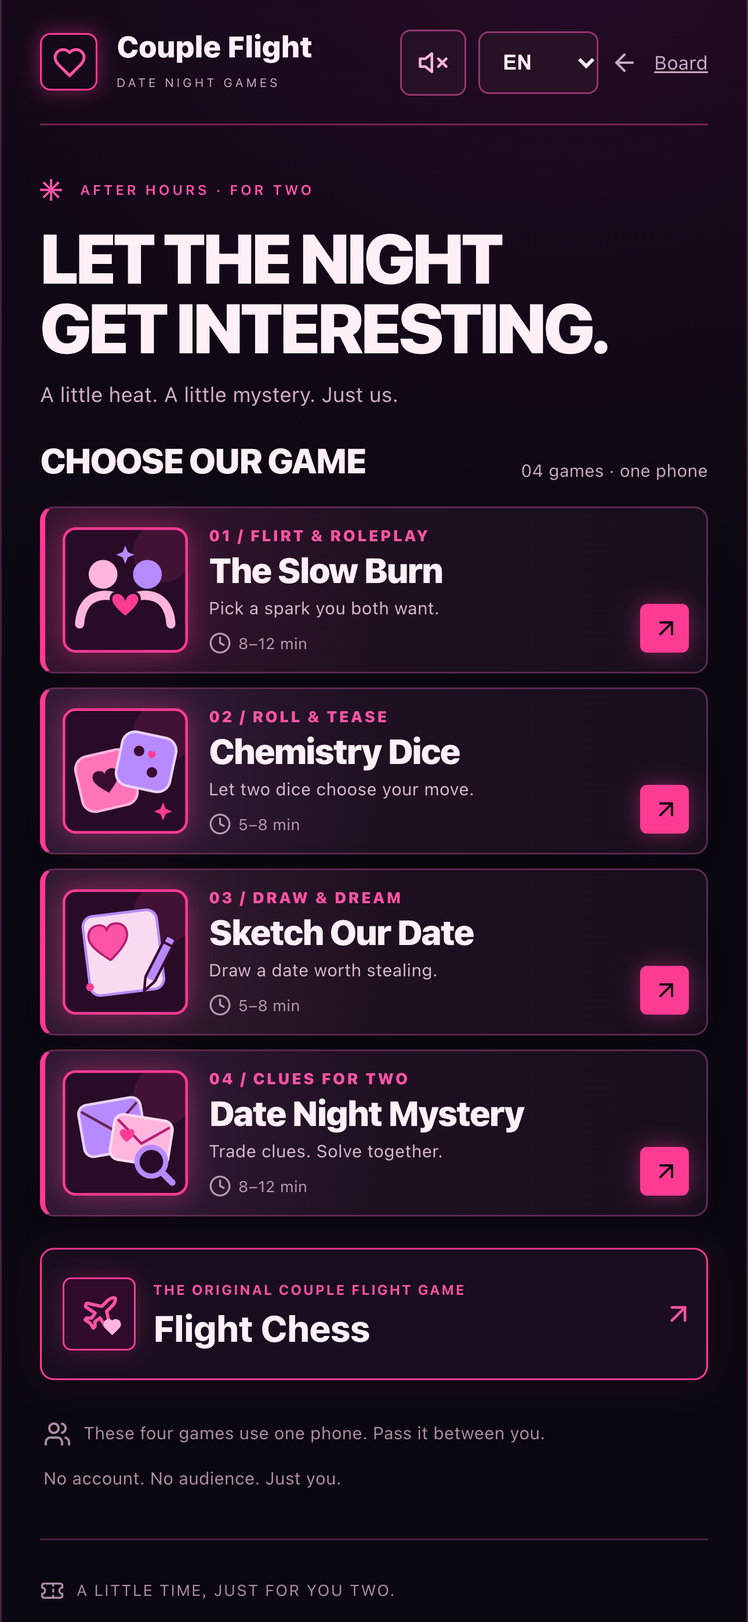
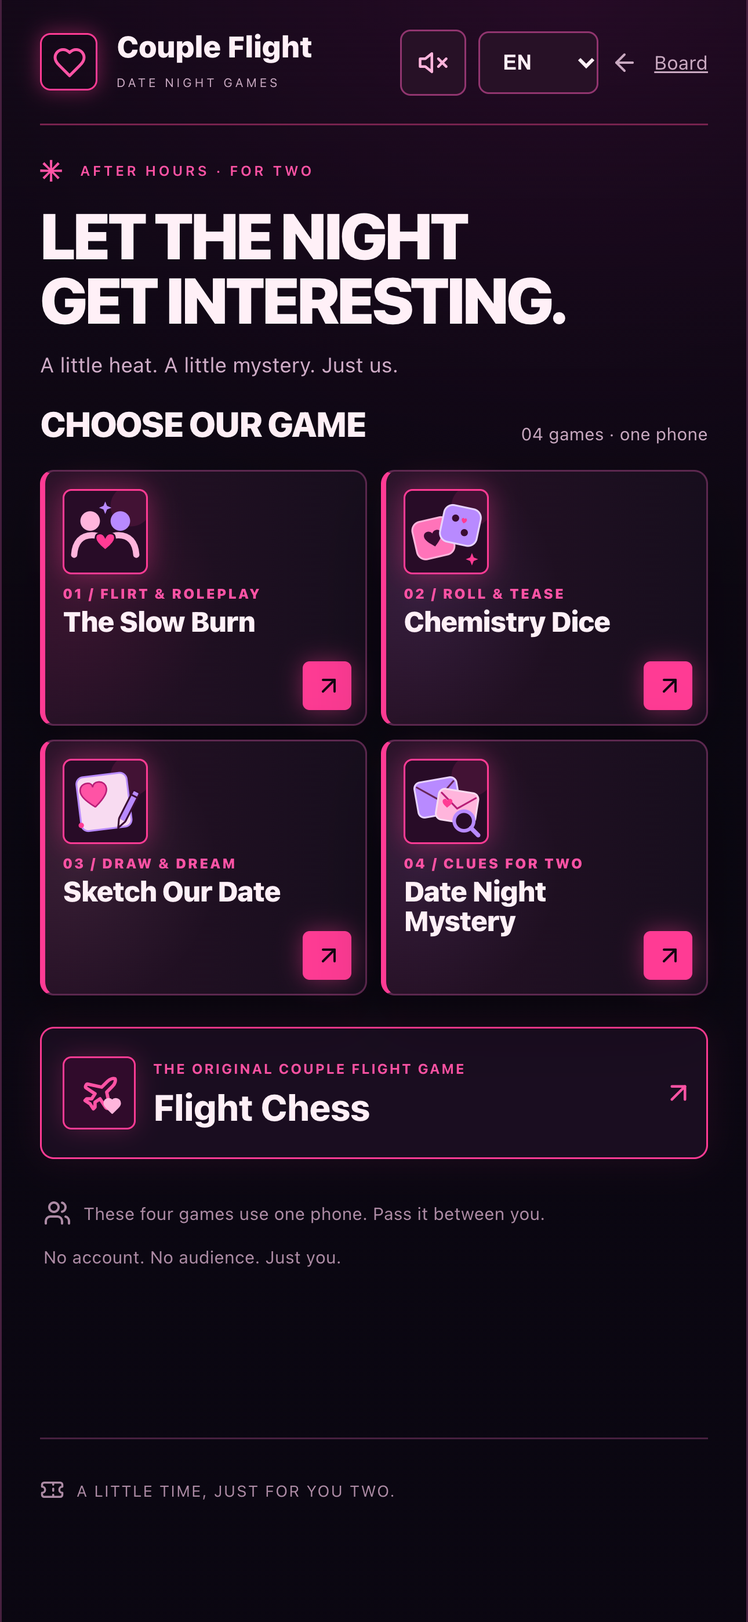
Fix mobile game catalog and tailor Slow Burn for married couples

diff --git a/prototypes/date-night/mini-translations.ts b/prototypes/date-night/mini-translations.ts
@@ -124,9 +124,70 @@ export const miniTranslations: Record<string, readonly [string, string]> = {
   'Offer a hand, a hug, or a kiss. Let your partner choose.': ['伸出手、给个拥抱，或问问能不能亲一下。让对方选。', 'Ofrece una mano, un abrazo o un beso. Deja que tu pareja elija.'],
   'Ask, listen, and follow the answer you get now. A no or a different idea is complete in itself.': ['先问问对方想不想。说“不”，或想换一种，都照着对方现在的意思来。', 'Pregunta, escucha y respeta la respuesta de ahora. Un no o una idea distinta ya es una respuesta completa.'],
   '“Then let’s do exactly that.”': ['“好，那就按你说的来。”', '«Entonces hagamos justo eso».'],
+  'The welcome-home kiss': ['回家后的那个吻', 'El beso de bienvenida'],
+  'Greet them as if you have been waiting all week.': ['像等了一整周那样，认真迎接对方。', 'Recíbele como si llevaras toda la semana esperando este momento.'],
+  'Ask for a kiss and let them choose how long it lasts.': ['问问能不能亲一下，亲多久让对方决定。', 'Pide un beso y deja que tu pareja decida cuánto dura.'],
+  '“Can I have the kind of hello we used to save for dates?”': ['“能不能像以前约会那样，给我一个见面吻？”', '«¿Me das uno de esos saludos que antes reservábamos para las citas?»'],
+  '“Only if you promise not to rush away.”': ['“可以，但你得答应别急着走开。”', '«Solo si prometes no salir corriendo después».'],
+  'Remember that night': ['还记得那一晚吗', '¿Recuerdas aquella noche?'],
+  'Bring back one detail from a date you still think about.': ['说一个你到现在还记得的约会细节。', 'Recupera un detalle de una cita que todavía recuerdes.'],
+  'Each name one detail. Then choose one to recreate soon.': ['每人说一个细节，再挑一个近期重现。', 'Cada quien dice un detalle; luego elijan uno para repetir pronto.'],
+  '“Remember that night? I still think about one part of it.”': ['“还记得那晚吗？有一幕我到现在都记得。”', '«¿Recuerdas aquella noche? Hay un momento que todavía tengo presente».'],
+  '“Tell me yours. I have one too.”': ['“先说你的，我也藏着一个。”', '«Cuéntame el tuyo. Yo también tengo uno».'],
+  'Choose the next move': ['下一步你来选', 'Elige el siguiente paso'],
+  'Offer a kiss, a slow dance, or a private plan for later.': ['给对方三个选项：一个吻、一支慢舞，或稍后的秘密计划。', 'Ofrece un beso, un baile lento o un plan privado para después.'],
+  'Let your partner pick one, suggest another, or pass.': ['让对方选一个、换一个，或者跳过。', 'Deja que tu pareja elija, proponga otra cosa o pase.'],
+  '“I have three ideas for us. Which one sounds like tonight?”': ['“我有三个点子。今晚你想选哪个？”', '«Tengo tres ideas para nosotros. ¿Cuál te apetece esta noche?»'],
+  '“Tell me the options. I might add a fourth.”': ['“先说来听听，说不定我还要加第四个。”', '«Dime las opciones. Quizá añada una cuarta».'],
+  'Pillow talk, no phones': ['枕边话，手机放一边', 'Charla de almohada, sin teléfonos'],
+  'Lie face to face and tell each other one thing you still find irresistible.': ['面对面躺着，轮流说一件现在仍让你心动的事。', 'Acuéstense frente a frente y díganse algo que todavía les resulta irresistible.'],
+  'Take turns with one honest line. A smile is allowed to interrupt.': ['轮流说一句真心话。说着说着笑场也没关系。', 'Túrnense para decir una frase sincera. Si se ríen, mejor.'],
+  '“Phone down. Tell me one thing you still like about us.”': ['“先放下手机。说一件你现在还喜欢我们俩的事。”', '«Deja el teléfono. Dime algo que todavía te encanta de nosotros».'],
+  '“I have more than one. You go first.”': ['“我可不止一件。你先来。”', '«Tengo más de una. Empieza tú».'],
+  'One more goodnight kiss': ['晚安吻，再来一次', 'Un beso más de buenas noches'],
+  'Meet at the edge of the bed for a kiss that lasts longer than usual.': ['在床边相遇，给彼此一个比平时久一点的吻。', 'Encuéntrense al borde de la cama para un beso que dure un poco más.'],
+  'Ask for one kiss. Let your partner decide if it gets an encore.': ['先问能不能亲一下。要不要再来一次，让对方选。', 'Pide un beso. Tu pareja decide si hay repetición.'],
+  '“Can we give tonight a better ending?”': ['“今晚能不能换个更好的结尾？”', '«¿Le damos un mejor final a esta noche?»'],
+  '“That depends. How good is your first kiss?”': ['“那得看你的第一个吻有多厉害。”', '«Depende. ¿Qué tan bueno será el primer beso?»'],
+  'Your turn, then mine': ['你先选，再换我', 'Primero tú, luego yo'],
+  'Each choose one small bedroom move the other can say yes to or change.': ['每人提一个卧室里的小动作，对方可以同意，也可以改。', 'Cada quien propone un gesto íntimo; la otra persona puede aceptarlo o cambiarlo.'],
+  'Offer one move each. Keep the version you both like.': ['一人提一个点子，只留下两人都喜欢的版本。', 'Propongan un gesto cada uno y quédense con la versión que les guste a ambos.'],
+  '“You pick our first move. I get the next one.”': ['“第一步你选，下一步换我。”', '«Tú eliges el primer paso. El siguiente me toca a mí».'],
+  '“Deal. No peeking at my choice.”': ['“成交。可不许偷看我选什么。”', '«Trato hecho. Nada de espiar mi elección».'],
+  'A kiss worth staying for': ['让人舍不得结束的吻', 'Un beso para quedarse'],
+  'Sit together at the edge of the bed and let the first kiss take its time.': ['一起坐在床边，让第一个吻慢一点、久一点。', 'Siéntense al borde de la cama y tómense su tiempo con el primer beso.'],
+  'Take turns choosing when to lean in. Pause and ask before another kiss.': ['轮流决定何时靠近。再亲一次前，停下来问问对方。', 'Túrnense para acercarse. Antes de otro beso, hagan una pausa y pregunten.'],
+  '“I want to kiss you like we have nowhere else to be. Can I?”': ['“我想慢慢亲你，像今晚哪儿都不用去。可以吗？”', '«Quiero besarte sin ninguna prisa. ¿Puedo?»'],
+  '“Come closer. Slow is exactly what I want.”': ['“靠近一点。今晚我就想慢慢来。”', '«Acércate. Justo hoy quiero ir despacio».'],
+  'Face to face': ['枕边面对面', 'Frente a frente'],
+  'Turn toward each other on the pillows; choose a look, a kiss, or both.': ['在枕头上转身面对彼此，选对视、亲吻，或者都要。', 'Mírense frente a frente sobre las almohadas: una mirada, un beso o ambas cosas.'],
+  'Stay face to face for three breaths. Let either person choose the next move.': ['面对面停留三个呼吸，再由任意一方提出下一步。', 'Quédense frente a frente durante tres respiraciones. Cualquiera puede proponer lo siguiente.'],
+  '“Stay here with me. What should I do first?”': ['“先陪我待在这里。你想让我先做什么？”', '«Quédate aquí conmigo. ¿Qué te gustaría primero?»'],
+  '“Start with that look. Then ask me again.”': ['“先用刚才那个眼神看我，再问一次。”', '«Empieza con esa mirada. Luego pregúntame otra vez».'],
+  'Whisper a wish': ['贴近耳边说个愿望', 'Susurra un deseo'],
+  'Tell your spouse one thing you would love tonight, softly and without guessing.': ['贴近一点，说一件今晚你想和对方一起做的事，别让对方猜。', 'Dile a tu pareja algo que te encantaría esta noche, bajito y sin hacerle adivinar.'],
+  'Each whisper one wish. The other can say yes, suggest a change, or pass.': ['每人轻声说一个愿望。对方可以答应、修改，也可以跳过。', 'Cada quien susurra un deseo. La otra persona puede decir que sí, cambiarlo o pasar.'],
+  '“I have one wish for tonight. Want to hear it?”': ['“我今晚有个小愿望。想听吗？”', '«Tengo un deseo para esta noche. ¿Quieres oírlo?»'],
+  '“Tell me. I’ll tell you what I want too.”': ['“说来听听。我也告诉你我想要什么。”', '«Cuéntamelo. Yo también te diré qué quiero».'],
+  'Leave a little clue': ['留个小暗号', 'Deja una pequeña pista'],
+  'Trace a tiny heart over a clothed shoulder and ask where the next kiss should land.': ['隔着衣服在对方肩上画颗小爱心，再问下一吻想落在哪里。', 'Dibuja un corazoncito sobre su hombro cubierto y pregunta dónde le gustaría el próximo beso.'],
+  'Ask before touching. Let their answer choose the next move.': ['碰之前先问，让对方的回答决定下一步。', 'Pregunta antes de tocar. Su respuesta decide el siguiente paso.'],
+  '“I’m leaving you a clue. Where would you like the next kiss?”': ['“我留了个小暗号。下一吻你想要在哪里？”', '«Te dejo una pista. ¿Dónde te gustaría el próximo beso?»'],
+  '“I like that clue. Try here.”': ['“这个暗号我喜欢。来这里试试。”', '«Me gusta la pista. Prueba aquí».'],
+  'Side by side': ['并肩躺一会儿', 'Uno al lado del otro'],
+  'Lie together under the covers and let one person choose what comes next.': ['一起钻进被子，轮流决定接下来做什么。', 'Acuéstense juntos bajo las cobijas y dejen que uno elija qué sigue.'],
+  'Hold hands for three breaths; ask if they want a kiss, a whisper, or more time.': ['牵着手慢慢呼吸三次，再问想要一个吻、一句悄悄话，还是再等等。', 'Tómense de la mano durante tres respiraciones; pregunta si quiere un beso, un susurro o más tiempo.'],
+  '“Come lie next to me. We can take our time.”': ['“过来躺我旁边。今晚我们可以慢慢来。”', '«Ven a acostarte a mi lado. Tenemos tiempo».'],
+  '“Yes. Stay close and ask me what I’m thinking.”': ['“好。再靠近一点，猜猜我在想什么。”', '«Sí. Quédate cerca y pregúntame qué estoy pensando».'],
+  'Your turn to lead': ['今晚你带路', 'Hoy tú llevas la iniciativa'],
+  'Take turns choosing one bedtime move: a kiss, a close embrace, or a whispered request.': ['轮流选一个床边小动作：一个吻、一次靠近，或一句悄悄话。', 'Túrnense para elegir un gesto: un beso, acercarse o pedir algo al oído.'],
+  'One person offers a move; the other accepts, changes it, or passes. Then swap.': ['一人提出动作，另一人同意、修改或跳过，然后交换。', 'Uno propone el gesto; el otro acepta, cambia o pasa. Luego cambian de turno.'],
+  '“Your move. Surprise me with something I’d actually like.”': ['“你先出招。给我一个真正懂我的惊喜。”', '«Te toca. Sorpréndeme con algo que de verdad me guste».'],
+  '“Only if I get the next turn.”': ['“可以，不过下一轮得换我。”', '«Solo si el siguiente turno es mío».'],
+  'A BEDROOM MOVE': ['今夜的小动作', 'UN GESTO ÍNTIMO'],
   'The date is ending. Neither of you is in a hurry to say goodbye.': ['约会快结束了，可你们谁都不急着说再见。', 'La cita está por terminar, pero ninguno tiene prisa por despedirse.'],
   'You made it home. The ordinary evening still has room for one more moment.': ['回到家了，平常的夜晚还可以多一点特别。', 'Ya llegaron a casa. A esta noche común todavía le cabe un momento especial.'],
-  'The day is finally quiet. You get to choose how tonight begins again.': ['终于安静下来了。今晚想怎么重新开始，由你们决定。', 'Por fin hay silencio. Ustedes deciden cómo volver a empezar esta noche.'],
+  'The bedroom door is closed. You get to choose how tonight begins together.': ['卧室门轻轻关上。今晚从哪一步开始，你们一起决定。', 'La puerta del dormitorio está cerrada. Ustedes eligen cómo empezar esta noche.'],
   '“I was trying to play it cool. Then you did that thing I keep thinking about…”': ['“我本来想装得淡定一点。可你刚才那个小动作，我一直忘不掉……”', '«Intentaba hacerme el tranquilo, pero hiciste algo que no dejo de recordar…»'],
   '“You caught me looking. Want to guess why?”': ['“被你发现我在看你了。猜猜为什么？”', '«Me atrapaste mirándote. ¿Quieres adivinar por qué?»'],
   '“I want to come closer. Would you like a hand, a hug, or a kiss?”': ['“我想靠近一点。你想牵手、拥抱，还是接个吻？”', '«Me gustaría acercarme. ¿Te apetece tomarme la mano, un abrazo o un beso?»'],

diff --git a/prototypes/date-night/after-hours.tsx b/prototypes/date-night/after-hours.tsx
@@ -6,18 +6,21 @@ import { stageLabels, type Names, type Stage, type Vibe } from './content';
 import { useScreenFocus } from './useScreenFocus';
 import { useMiniI18n } from './mini-i18n';
 import { playMiniCue, playMiniVoice } from './mini-audio';
+import bedroomSheet from './assets/slow-burn-married-velvet.png';
 
 type Choice = 'yes' | 'maybe' | 'pass';
 type Move = {
-  id: 'words' | 'gaze' | 'closer';
+  id: string;
   title: string;
   pitch: string;
   art?: ArtKind;
+  bedroomCell?: number;
   action: string;
+  invitation?: string;
   comeback: string;
 };
 
-const moves: Move[] = [
+const newMoves: Move[] = [
   {
     id: 'words', title: 'Make me blush', pitch: 'Trade one specific compliment, close enough to hear it clearly.',
     art: 'chat',
@@ -37,10 +40,38 @@ const moves: Move[] = [
   },
 ];
 
+const togetherMoves: Move[] = [
+  { id: 'welcome', title: 'The welcome-home kiss', pitch: 'Greet them as if you have been waiting all week.', art: 'home', action: 'Ask for a kiss and let them choose how long it lasts.', invitation: '“Can I have the kind of hello we used to save for dates?”', comeback: '“Only if you promise not to rush away.”' },
+  { id: 'memory', title: 'Remember that night', pitch: 'Bring back one detail from a date you still think about.', art: 'ticket', action: 'Each name one detail. Then choose one to recreate soon.', invitation: '“Remember that night? I still think about one part of it.”', comeback: '“Tell me yours. I have one too.”' },
+  { id: 'close', title: 'Choose the next move', pitch: 'Offer a kiss, a slow dance, or a private plan for later.', art: 'dance', action: 'Let your partner pick one, suggest another, or pass.', invitation: '“I have three ideas for us. Which one sounds like tonight?”', comeback: '“Tell me the options. I might add a fourth.”' },
+];
+
+const marriedPlayfulMoves: Move[] = [
+  { id: 'pillow-look', title: 'Pillow talk, no phones', pitch: 'Lie face to face and tell each other one thing you still find irresistible.', bedroomCell: 1, action: 'Take turns with one honest line. A smile is allowed to interrupt.', invitation: '“Phone down. Tell me one thing you still like about us.”', comeback: '“I have more than one. You go first.”' },
+  { id: 'bedside-kiss', title: 'One more goodnight kiss', pitch: 'Meet at the edge of the bed for a kiss that lasts longer than usual.', bedroomCell: 0, action: 'Ask for one kiss. Let your partner decide if it gets an encore.', invitation: '“Can we give tonight a better ending?”', comeback: '“That depends. How good is your first kiss?”' },
+  { id: 'switch-lead', title: 'Your turn, then mine', pitch: 'Each choose one small bedroom move the other can say yes to or change.', bedroomCell: 5, action: 'Offer one move each. Keep the version you both like.', invitation: '“You pick our first move. I get the next one.”', comeback: '“Deal. No peeking at my choice.”' },
+];
+
+const marriedFlirtyMoves: Move[] = [
+  { id: 'slow-kiss', title: 'A kiss worth staying for', pitch: 'Sit together at the edge of the bed and let the first kiss take its time.', bedroomCell: 0, action: 'Take turns choosing when to lean in. Pause and ask before another kiss.', invitation: '“I want to kiss you like we have nowhere else to be. Can I?”', comeback: '“Come closer. Slow is exactly what I want.”' },
+  { id: 'face-to-face', title: 'Face to face', pitch: 'Turn toward each other on the pillows; choose a look, a kiss, or both.', bedroomCell: 1, action: 'Stay face to face for three breaths. Let either person choose the next move.', invitation: '“Stay here with me. What should I do first?”', comeback: '“Start with that look. Then ask me again.”' },
+  { id: 'whisper-wish', title: 'Whisper a wish', pitch: 'Tell your spouse one thing you would love tonight, softly and without guessing.', bedroomCell: 2, action: 'Each whisper one wish. The other can say yes, suggest a change, or pass.', invitation: '“I have one wish for tonight. Want to hear it?”', comeback: '“Tell me. I’ll tell you what I want too.”' },
+  { id: 'shoulder-heart', title: 'Leave a little clue', pitch: 'Trace a tiny heart over a clothed shoulder and ask where the next kiss should land.', bedroomCell: 3, action: 'Ask before touching. Let their answer choose the next move.', invitation: '“I’m leaving you a clue. Where would you like the next kiss?”', comeback: '“I like that clue. Try here.”' },
+  { id: 'side-by-side', title: 'Side by side', pitch: 'Lie together under the covers and let one person choose what comes next.', bedroomCell: 4, action: 'Hold hands for three breaths; ask if they want a kiss, a whisper, or more time.', invitation: '“Come lie next to me. We can take our time.”', comeback: '“Yes. Stay close and ask me what I’m thinking.”' },
+  { id: 'take-the-lead', title: 'Your turn to lead', pitch: 'Take turns choosing one bedtime move: a kiss, a close embrace, or a whispered request.', bedroomCell: 5, action: 'One person offers a move; the other accepts, changes it, or passes. Then swap.', invitation: '“Your move. Surprise me with something I’d actually like.”', comeback: '“Only if I get the next turn.”' },
+];
+
+function MoveIllustration({ move }: { move: Move }) {
+  if (move.bedroomCell === undefined) return <PromptIllustration kind={move.art} />;
+  const column = move.bedroomCell % 3;
+  const row = Math.floor(move.bedroomCell / 3);
+  return <span className="prompt-art bedroom-art" data-art-kind={`bedroom-${move.bedroomCell}`} aria-hidden="true" style={{ backgroundImage: `url(${bedroomSheet})`, backgroundSize: '300% 200%', backgroundPosition: `${column * 50}% ${row * 100}%` }} />;
+}
+
 const settings: Record<Stage, string> = {
   new: 'The date is ending. Neither of you is in a hurry to say goodbye.',
   together: 'You made it home. The ordinary evening still has room for one more moment.',
-  married: 'The day is finally quiet. You get to choose how tonight begins again.',
+  married: 'The bedroom door is closed. You get to choose how tonight begins together.',
 };
 
 const invitations: Record<Stage, Record<Move['id'], string>> = {
@@ -65,6 +96,7 @@ export function AfterHours({ names, stage, vibe, onHome, onReplay }: {
   names: Names; stage: Stage; vibe: Vibe; onHome: () => void; onReplay: () => void;
 }) {
   const { locale, tr, fmt, displayName } = useMiniI18n();
+  const deck = stage === 'married' ? vibe === 'flirty' ? marriedFlirtyMoves : marriedPlayfulMoves : stage === 'together' ? togetherMoves : newMoves;
   const [phase, setPhase] = useState<'pick' | 'detail' | 'reveal' | 'scene' | 'ending'>('pick');
   const [owner, setOwner] = useState(0);
   const [index, setIndex] = useState(0);
@@ -74,15 +106,15 @@ export function AfterHours({ names, stage, vibe, onHome, onReplay }: {
   const [beat, setBeat] = useState(0);
   const [ending, setEnding] = useState<'linger' | 'later'>('linger');
   useScreenFocus(`after-hours-${phase}-${owner}-${index}-${beat}`);
-  const matches = moves.filter(move => answers[0][move.id] !== 'pass' && answers[1][move.id] !== 'pass' && answers[0][move.id] && answers[1][move.id]);
+  const matches = deck.filter(move => answers[0][move.id] !== 'pass' && answers[1][move.id] !== 'pass' && answers[0][move.id] && answers[1][move.id]);
 
   function choose(choice: Choice) {
-    const thisPerson = { ...answers[owner], [moves[index].id]: choice };
+    const thisPerson = { ...answers[owner], [deck[index].id]: choice };
     setAnswers(previous => owner === 0
       ? [thisPerson, previous[1]]
       : [previous[0], thisPerson]);
-    if (index < moves.length - 1) setIndex(index + 1);
-    else if (moves.every(move => thisPerson[move.id] === 'pass')) {
+    if (index < deck.length - 1) setIndex(index + 1);
+    else if (deck.every(move => thisPerson[move.id] === 'pass')) {
       if (owner === 0) { setOwner(1); setIndex(0); }
       else setPhase('reveal');
     } else setPhase('detail');
@@ -98,12 +130,12 @@ export function AfterHours({ names, stage, vibe, onHome, onReplay }: {
   </Handoff>;
 
   if (phase === 'pick') {
-    const move = moves[index];
+    const move = deck[index];
     return <Handoff key={owner} name={names[owner]} voicePlayer={owner} title="What sounds good tonight?" label="Only you see these choices">
-      <Progress current={index + 1} total={moves.length} label="Spark" />
+      <Progress current={index + 1} total={deck.length} label="Spark" />
       <div className="paper-card mini-paper after-hours-choice" data-move-id={move.id}>
-        <span className="card-label">{tr("A SMALL MOVE")}</span>
-        <PromptIllustration kind={move.art} />
+        <span className="card-label">{tr(stage === 'married' ? 'A BEDROOM MOVE' : 'A SMALL MOVE')}</span>
+        <MoveIllustration move={move} />
         <p>{tr(move.title)}</p><small>{tr(move.pitch)}</small>
       </div>
       <div className="after-hours-votes">
@@ -120,8 +152,8 @@ export function AfterHours({ names, stage, vibe, onHome, onReplay }: {
     <h1 tabIndex={-1}>{matches.length ? <>{tr("You both left")}<br /><em>{tr("the door open.")}</em></> : <>{tr("Tonight can stay")}<br /><em>{tr("easy.")}</em></>}</h1>
     <p className="lede">{tr(matches.length ? 'Pick one spark to play out together. You can change your minds at any point.' : 'No shared spark this round. Keep the good company, or try another night.')}</p>
     {matches.length > 0 && <div className="after-hours-match-list">{matches.map(move =>
-      <button key={move.id} className={`after-hours-match ${move.art ? '' : 'artless'}`} data-match-move={move.id} onClick={() => { setSelected(move); setPhase('scene'); void playMiniCue('reveal'); playMiniVoice(locale, 1, 'mini-spark'); }}>
-        <PromptIllustration kind={move.art} /><span><small>{tr("YOUR SHARED SPARK")}</small><strong>{tr(move.title)}</strong><em>{tr(move.pitch)}</em></span><ArrowRight size={19} />
+      <button key={move.id} className={`after-hours-match ${move.art || move.bedroomCell !== undefined ? '' : 'artless'}`} data-match-move={move.id} onClick={() => { setSelected(move); setPhase('scene'); void playMiniCue('reveal'); playMiniVoice(locale, 1, 'mini-spark'); }}>
+        <MoveIllustration move={move} /><span><small>{tr("YOUR SHARED SPARK")}</small><strong>{tr(move.title)}</strong><em>{tr(move.pitch)}</em></span><ArrowRight size={19} />
       </button>)}</div>}
     <p className="soft-note"><Lock size={14} /> {tr("Everything else stays between each person and their choices.")}</p>
     <Button className="full-width" variant="secondary" onClick={matches.length ? onReplay : onHome}>{tr(matches.length ? 'Start a different round' : 'Choose another game')}</Button>
@@ -133,8 +165,8 @@ export function AfterHours({ names, stage, vibe, onHome, onReplay }: {
     <Progress current={beat + 1} total={3} label="Beat" />
     <div className="paper-card mini-paper after-hours-scene">
       <span className="card-label">{beat === 0 ? tr('YOUR SETTING') : beat === 1 ? fmt('{name}, YOUR INVITATION', { name: displayName(names[0]) }) : fmt('{name}, YOUR REPLY', { name: displayName(names[1]) })}</span>
-      <PromptIllustration kind={beat === 0 ? (stage === 'new' ? undefined : 'home') : selected.art} />
-      <p>{tr(beat === 0 ? settings[stage] : beat === 1 ? (vibe === 'playful' && selected.id === 'closer' ? '“Want to come a little closer, or should I try one more opening line?”' : invitations[stage][selected.id]) : selected.comeback)}</p>
+      {selected.bedroomCell !== undefined ? <MoveIllustration move={selected} /> : <PromptIllustration kind={beat === 0 ? (stage === 'new' ? undefined : 'home') : selected.art} />}
+      <p>{tr(beat === 0 ? settings[stage] : beat === 1 ? (vibe === 'playful' && selected.id === 'closer' ? '“Want to come a little closer, or should I try one more opening line?”' : selected.invitation ?? invitations[stage][selected.id]) : selected.comeback)}</p>
       <small>{tr(beat === 0 ? 'Put the phone down for a breath. Decide who will make the first move.' : beat === 1 ? selected.action : 'Use your own words. Then decide together whether to linger or leave this moment here.')}</small>
       {beat > 0 && details[beat - 1].trim() && <div className="after-hours-callback"><Sparkles size={15} /><span>{fmt("Make it personal: “{detail}”", { detail: details[beat - 1].trim() })}</span></div>}
     </div>

diff --git a/prototypes/date-night/styles.css b/prototypes/date-night/styles.css
@@ -533,6 +533,9 @@ dialog::backdrop { background: #09070cd9; }
 .more-card-0 { grid-column: 1 / -1; background: var(--cfc-surface-wine); border-color: #79505d; }
 .more-card-0 h3 { color: var(--cfc-rose-soft); }
 .after-hours-choice { min-height: 164px; }
+.bedroom-art { border: 1px solid #b975a2; border-radius: 10px; background-repeat: no-repeat; background-color: #2b1029; box-shadow: 0 7px 20px #09040c7a; }
+.after-hours-choice .bedroom-art, .after-hours-scene .bedroom-art { width: 120px; height: 120px; }
+.after-hours-match .prompt-art.bedroom-art { width: 82px; height: 82px; margin: 0; float: none; }
 .after-hours-votes { display: grid; gap: 9px; margin: 18px 0 9px; }
 .after-hours-votes .button { min-height: 51px; }
 .after-hours-detail { display: grid; gap: 10px; color: var(--cfc-rose); font-size: 10px; letter-spacing: 1.1px; text-transform: uppercase; margin: 28px 0 13px; }
@@ -799,4 +802,26 @@ body { background: radial-gradient(circle at 76% 0%, #4d0f43 0, transparent 34%)
   .catalog-heading h2 { font-size: 17px; }
   .catalog-card { grid-template-columns: 64px minmax(0, 1fr); }
   .catalog-title { font-size: 18px; }
+}
+
+/* WKWebView can keep the document fixed; give the games their own touch scroller. */
+@media (max-width: 650px) {
+  html, body { height: 100%; overflow: hidden; }
+  #root { height: 100dvh; overflow-x: hidden; overflow-y: auto; overscroll-behavior-y: contain; -webkit-overflow-scrolling: touch; touch-action: pan-y; }
+  .home-screen .home-intro { padding: 18px 0 13px; }
+  .home-screen .home-intro h1 { font-size: clamp(31px, 8.6vw, 37px); }
+  .catalog-grid { grid-template-columns: repeat(2, minmax(0, 1fr)); gap: 8px; }
+  .catalog-card { display: flex; flex-direction: column; align-items: flex-start; gap: 6px; min-height: 147px; padding: 10px; }
+  .catalog-emblem { width: 49px; height: 49px; }
+  .catalog-copy { gap: 3px; padding-right: 17px; }
+  .catalog-number { font-size: 8px; }
+  .catalog-title { font-size: 16px; line-height: 1.05; }
+  .catalog-prompt, .catalog-duration { display: none; }
+  .catalog-play { right: 8px; bottom: 8px; }
+}
+@media (max-width: 370px) {
+  .home-screen .home-intro h1 { font-size: 30px; }
+  .catalog-card { min-height: 138px; padding: 8px; }
+  .catalog-emblem { width: 45px; height: 45px; }
+  .catalog-title { font-size: 15px; }
 }

diff --git a/prototypes/date-night/useScreenFocus.ts b/prototypes/date-night/useScreenFocus.ts
@@ -3,6 +3,7 @@ import { useEffect } from 'react';
 export function useScreenFocus(screen: string) {
   useEffect(() => {
     document.querySelector<HTMLElement>('main h1')?.focus({ preventScroll: true });
+    document.getElementById('root')?.scrollTo({ top: 0, behavior: 'instant' });
     window.scrollTo({ top: 0, behavior: 'instant' });
   }, [screen]);
 }

diff --git a/docs/APP_STORE_1_1_1_US_DISCOVERY_METADATA.md b/docs/APP_STORE_1_1_1_US_DISCOVERY_METADATA.md
@@ -1,6 +1,6 @@
 # App Store 1.1.1 — US English discovery update
 
-Prepared for the **free** public release using the 1.1.1 (16) TestFlight build after iPhone verification. The four Midnight Flirt mini games and Flight Chess must be present in the build selected for App Review. The mini games use one phone; only Flight Chess has an optional room-code mode for two devices. Do not add mainland China to storefront availability.
+Prepared for the **free** public release using the 1.1.1 (17) TestFlight build after iPhone verification. The four Midnight Flirt mini games and Flight Chess must be present in the build selected for App Review. The mini games use one phone; only Flight Chess has an optional room-code mode for two devices. Do not add mainland China to storefront availability.
 
 ## Copy for App Store Connect
 
@@ -62,7 +62,7 @@ Date night now has four more ways to play: The Slow Burn, Chemistry Dice, Sketch
 
 All files are PNG, 1290 × 2796 px, without alpha. Apple lists this resolution as an accepted iPhone with Dynamic Island (large display) size. The first two show the current unified web UI used by the iOS build; the third shows the current Flight Chess board UI.
 
-1. [`01-four-couple-games-6.9.png`](../app-store-screenshots/1.1.1-us-discovery/01-four-couple-games-6.9.png) — four mini games and the Flight Chess entry.
+1. [`01-four-couple-games-6.9.png`](../app-store-screenshots/1.1.1-us-discovery/01-four-couple-games-6.9.png) — four mini games in a two-column mobile catalog and the Flight Chess entry.
 2. [`02-chemistry-dice-6.9.png`](../app-store-screenshots/1.1.1-us-discovery/02-chemistry-dice-6.9.png) — one actual dice result, with action, body part, and pass/reroll controls.
 3. [`03-flight-chess-board-6.9.png`](../app-store-screenshots/1.1.1-us-discovery/03-flight-chess-board-6.9.png) — Flight Chess board and turn controls.
 
@@ -70,8 +70,8 @@ Upload these to the **US English** localization in this order. Keep existing sup
 
 ## Release gate and evidence
 
-- The local iOS project is set to marketing version 1.1.1, build 16. Chemistry Dice now uses the selected Midnight Flirt illustrations: a soft cheek kiss mark when the man kisses the woman, a lip print when the woman kisses the man, and a matching close-up of the receiving partner's selected body part. The setup lets the couple choose whether Player 1 is the man or woman in the illustrations. Build 15 added an always reachable mobile back button and iPhone safe-area spacing.
-- Before submission, compare the screenshots with the final TestFlight build on an iPhone and confirm the four-game catalog, one dice result, different body part choices, direct shake control in both dice games, Flight Chess landing animation and sound, language switch, and room-code flow. Confirm the chosen Chemistry Dice art matches its result text before submitting for App Review.
+- The local iOS project is set to marketing version 1.1.1, build 17. The mini-game catalog now shows all four entries on small iPhones and scrolls inside the WKWebView. The Slow Burn has separate new, together, and married decks; married/flirty has six illustrated bedroom moves with private mutual choice. Build 16 added the selected Midnight Flirt Chemistry Dice illustrations. Build 15 added an always reachable mobile back button and iPhone safe-area spacing.
+- Before submission, compare the screenshots with the final TestFlight build on an iPhone and confirm the four-game catalog is fully visible and scrollable on a small screen, the married/flirty Slow Burn deck and bedroom illustrations, one dice result, different body part choices, direct shake control in both dice games, Flight Chess landing animation and sound, language switch, and room-code flow. Confirm the chosen Chemistry Dice art matches its result text before submitting for App Review.
 - On 2026-11-20, App Store Connect API access recovered after the account holder submitted the tax form. The 1.1.1 draft now has the US English metadata and three complete screenshots; its availability remains USA only.
 
 Apple references: [product-page fields](https://developer.apple.com/help/app-store-connect/reference/app-information/platform-version-information/), [screenshot specifications](https://developer.apple.com/help/app-store-connect/reference/app-information/screenshot-specifications/), [agreements status](https://developer.apple.com/help/app-store-connect/manage-agreements/view-agreements-status/).
